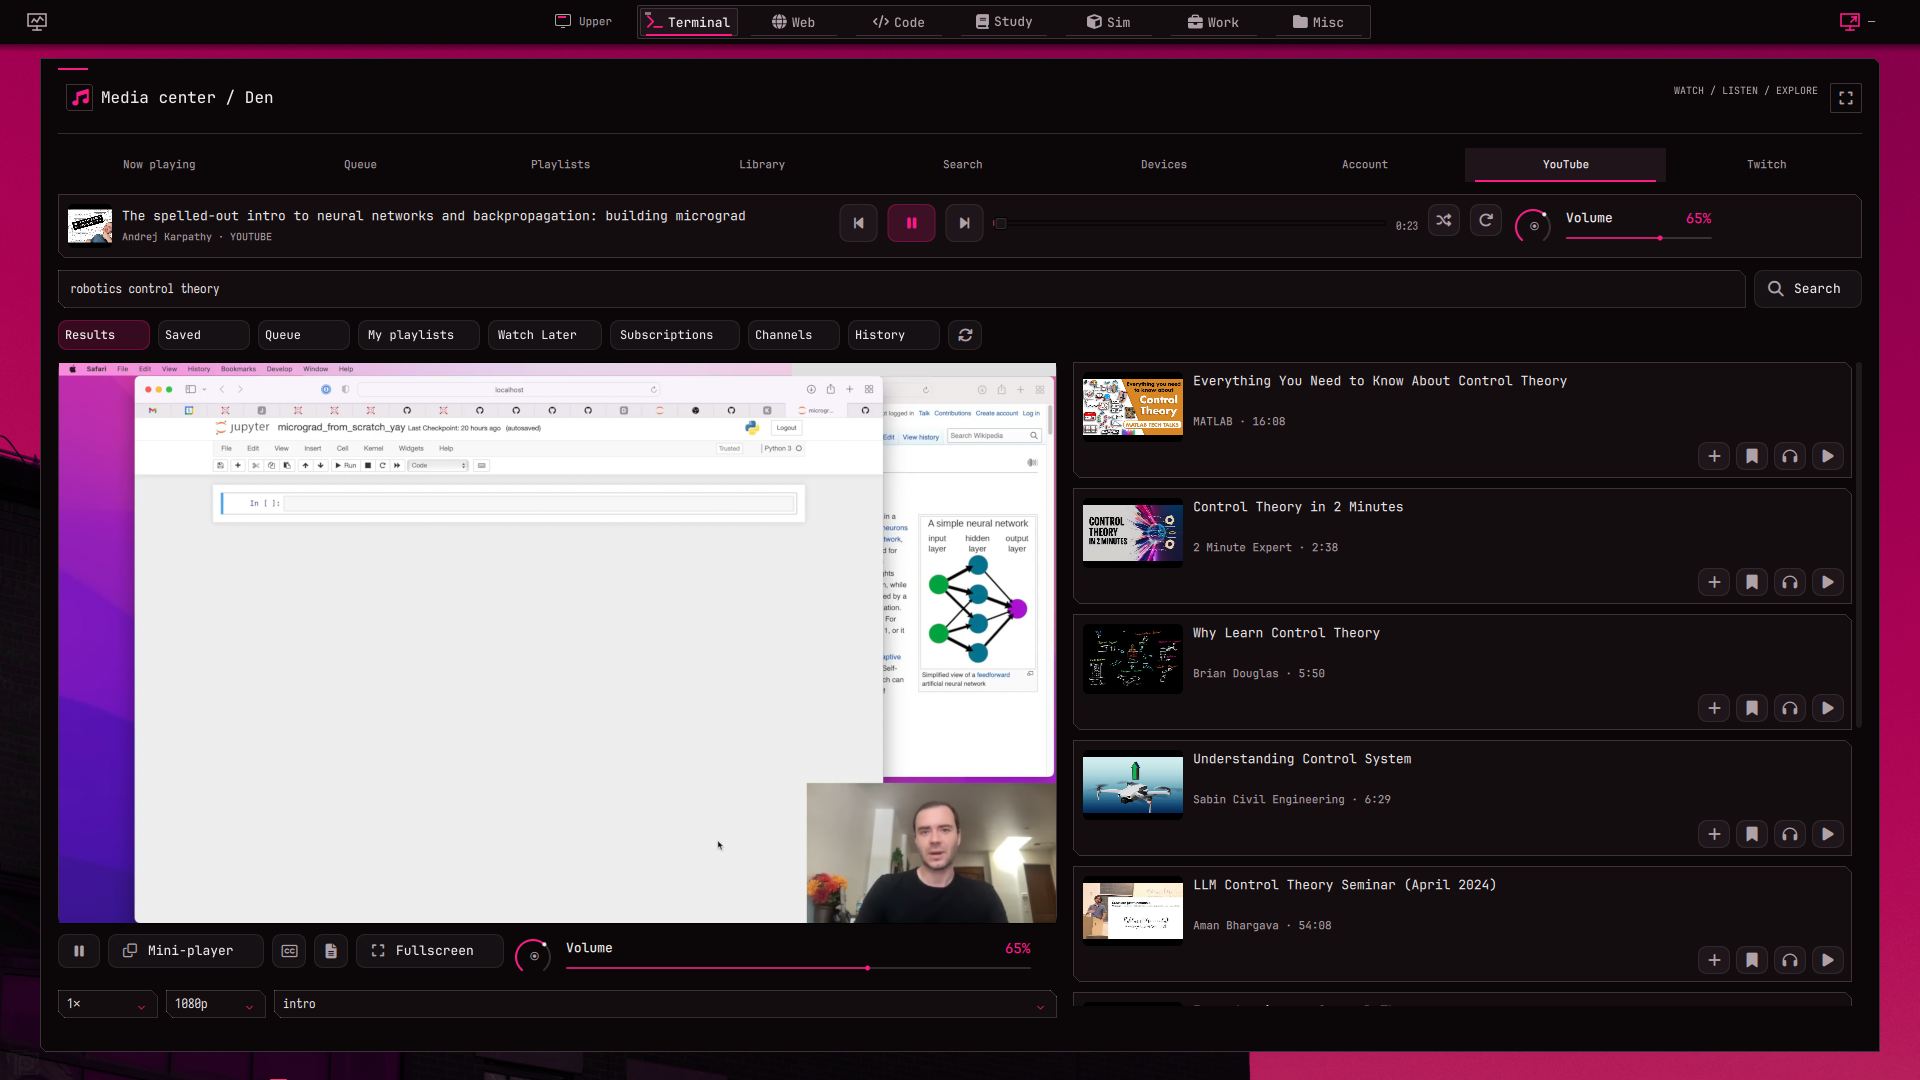
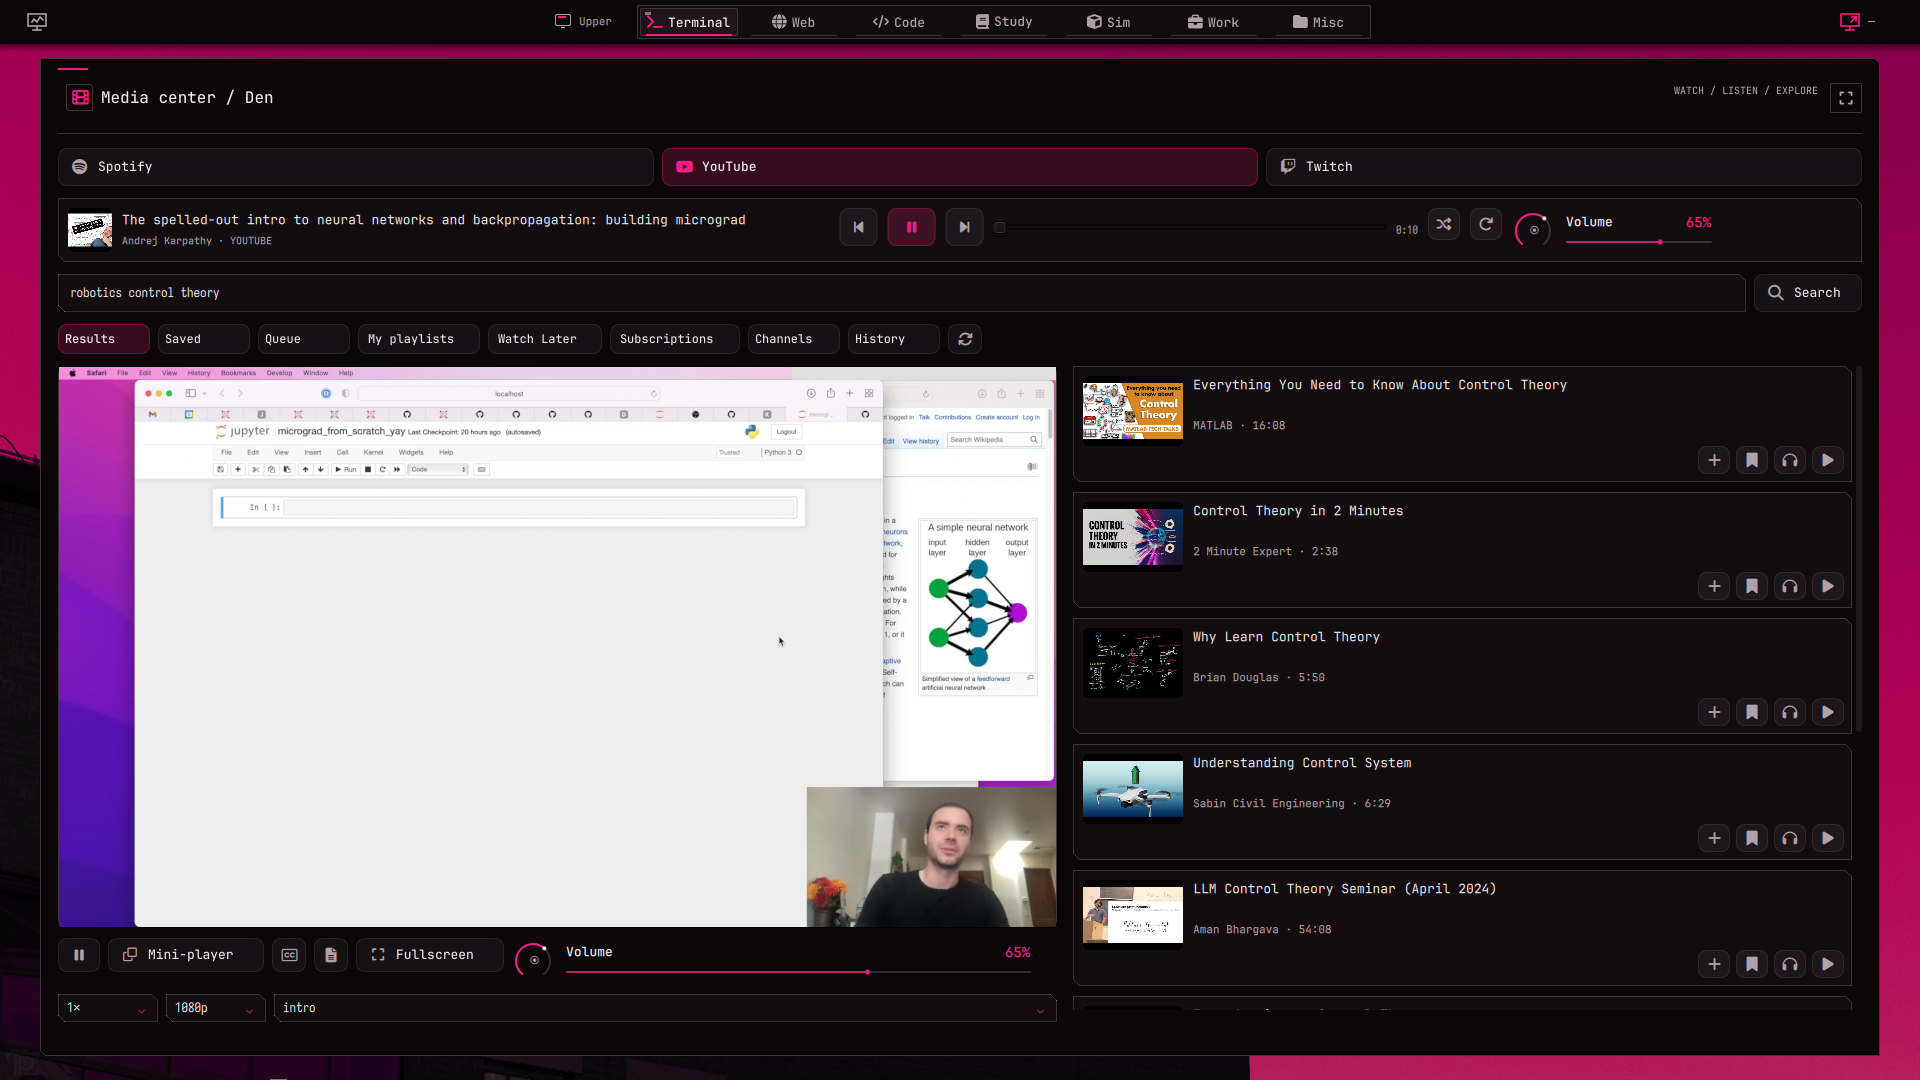
refine(media): separate source navigation from Spotify library views

diff --git a/home/.config/quickshell/sensei/modules/dropdowns/SpotifyDropdown.qml b/home/.config/quickshell/sensei/modules/dropdowns/SpotifyDropdown.qml
@@ -7,13 +7,15 @@ import qs.services
 import qs.components
 DropdownFrame {
  headerAccent:Theme.widgetAccent
- id:root;title:"\uf001 Media center / Den";katakana:root.page>=7?"WATCH / LISTEN / EXPLORE":"YOUR SOUNDTRACK";implicitWidth:root.page>=7?1840:1080;fillColor:Theme.ink
+ id:root;title:"\uf008 Media center / Den";katakana:root.page>=7?"WATCH / LISTEN / EXPLORE":"YOUR SOUNDTRACK";implicitWidth:root.page>=7?1840:1080;fillColor:Theme.ink
  property string outputName:""
  property var hostWindow:null
  IpcHandler {enabled:root.outputName!=="";target:"spotifyview-"+root.outputName;function state():string{return JSON.stringify({count:musicList.count,visible:musicList.visible,query:SpotifyDesk.query,contextId:SpotifyDesk.contextItem.id||"",loading:SpotifyDesk.loading,error:SpotifyDesk.error});}function filter(text:string):void{SpotifyDesk.query=text;}}
- headerRight:ControlTile {implicitWidth:32;implicitHeight:30;glyph:"\uf065";Accessible.name:"Open fullscreen music";onActivated:SpotifyDesk.expand()}
+ headerRight:ControlTile {implicitWidth:32;implicitHeight:30;glyph:"\uf065";Accessible.name:root.page>=7&&YouTubeDesk.nativeVideo?"Fullscreen video":"Open listening room";onActivated:root.page>=7&&YouTubeDesk.nativeVideo?SpotifyDesk.showVideo('fullscreen',root.outputName):SpotifyDesk.expand()}
  MusicVideos {parent:root.Overlay.overlay||root}
  property int page:SpotifyDesk.page
+ property int musicPage:0
+ onPageChanged:if(page<7)musicPage=page
  readonly property real position:SpotifyDesk.positionMs
  readonly property real duration:SpotifyDesk.playback.track?.duration||SpotifyDesk.player?.length*1000||1
  property string playlistToAdd:""
@@ -27,10 +29,13 @@ DropdownFrame {
  }
  }
  Column {width:parent.width;spacing:12
- Row {spacing:0;Repeater {model:['Now playing','Queue','Playlists','Library','Search','Devices','Account','YouTube','Twitch'];Item {required property string modelData;required property int index;width:Math.floor((root.width-28)/9);height:34
+ Row {width:parent.width;spacing:8
+ Repeater {model:[{label:'Spotify',glyph:'\uf1bc',page:root.musicPage},{label:'YouTube',glyph:'\uf16a',page:7},{label:'Twitch',glyph:'\uf1e8',page:8}];MusicButton {required property var modelData;required property int index;implicitWidth:(parent.width-16)/3;implicitHeight:38;label:modelData.label;glyph:modelData.glyph;textSize:13;selected:index===0?root.page<7:root.page===modelData.page;onActivated:SpotifyDesk.page=modelData.page}}
+ }
+ Row {visible:root.page<7;spacing:0;Repeater {model:['Now playing','Queue','Playlists','Library','Search','Devices','Account'];Item {required property string modelData;required property int index;width:Math.floor((root.width-36)/7);height:32
  Rectangle {anchors.fill:parent;color:SpotifyDesk.page===index?Theme.surfaceTwo:Theme.ink;opacity:pointer.containsMouse||SpotifyDesk.page===index?1:.85}
- Text { textFormat: Text.PlainText;anchors.centerIn:parent;text:modelData;font.family:Appearance.font.ui;font.pixelSize:11;font.weight:SpotifyDesk.page===index?Font.DemiBold:Font.Normal;color:SpotifyDesk.page===index?Theme.paper:Theme.paperMuted}
- Rectangle {anchors.bottom:parent.bottom;anchors.horizontalCenter:parent.horizontalCenter;width:SpotifyDesk.page===index?parent.width-20:0;height:2;color:Theme.signalRed;Behavior on width {NumberAnimation {duration:Theme.motionTravel;easing.type:Easing.OutCubic}}}
+ Text {textFormat:Text.PlainText;anchors.centerIn:parent;text:modelData;font.family:Appearance.font.ui;font.pixelSize:12;font.weight:SpotifyDesk.page===index?Font.DemiBold:Font.Normal;color:SpotifyDesk.page===index?Theme.paper:Theme.paperMuted}
+ Rectangle {anchors.bottom:parent.bottom;anchors.horizontalCenter:parent.horizontalCenter;width:SpotifyDesk.page===index?parent.width-20:0;height:2;color:Theme.signalRed}
  MouseArea {id:pointer;anchors.fill:parent;hoverEnabled:true;cursorShape:Qt.PointingHandCursor;onClicked:SpotifyDesk.page=index}
  }}}
  Row {width:parent.width;spacing:16

diff --git a/docs/digital-den/MEDIA-CENTER.md b/docs/digital-den/MEDIA-CENTER.md
@@ -1,6 +1,7 @@
 # The Den media center
 
-Open the music badge. Spotify, YouTube and Twitch share the transport controls;
+Open the music badge. The three primary sections are Spotify, YouTube and Twitch;
+Spotify’s library views live beneath its own section. All share transport controls;
 Ctrl+Space and the media keys control the source you chose. Browse another tab
 without losing play/pause, skip, seek or volume. Choosing Spotify music releases
 native YouTube/Twitch audio; resolving a failed video never stops existing music.
